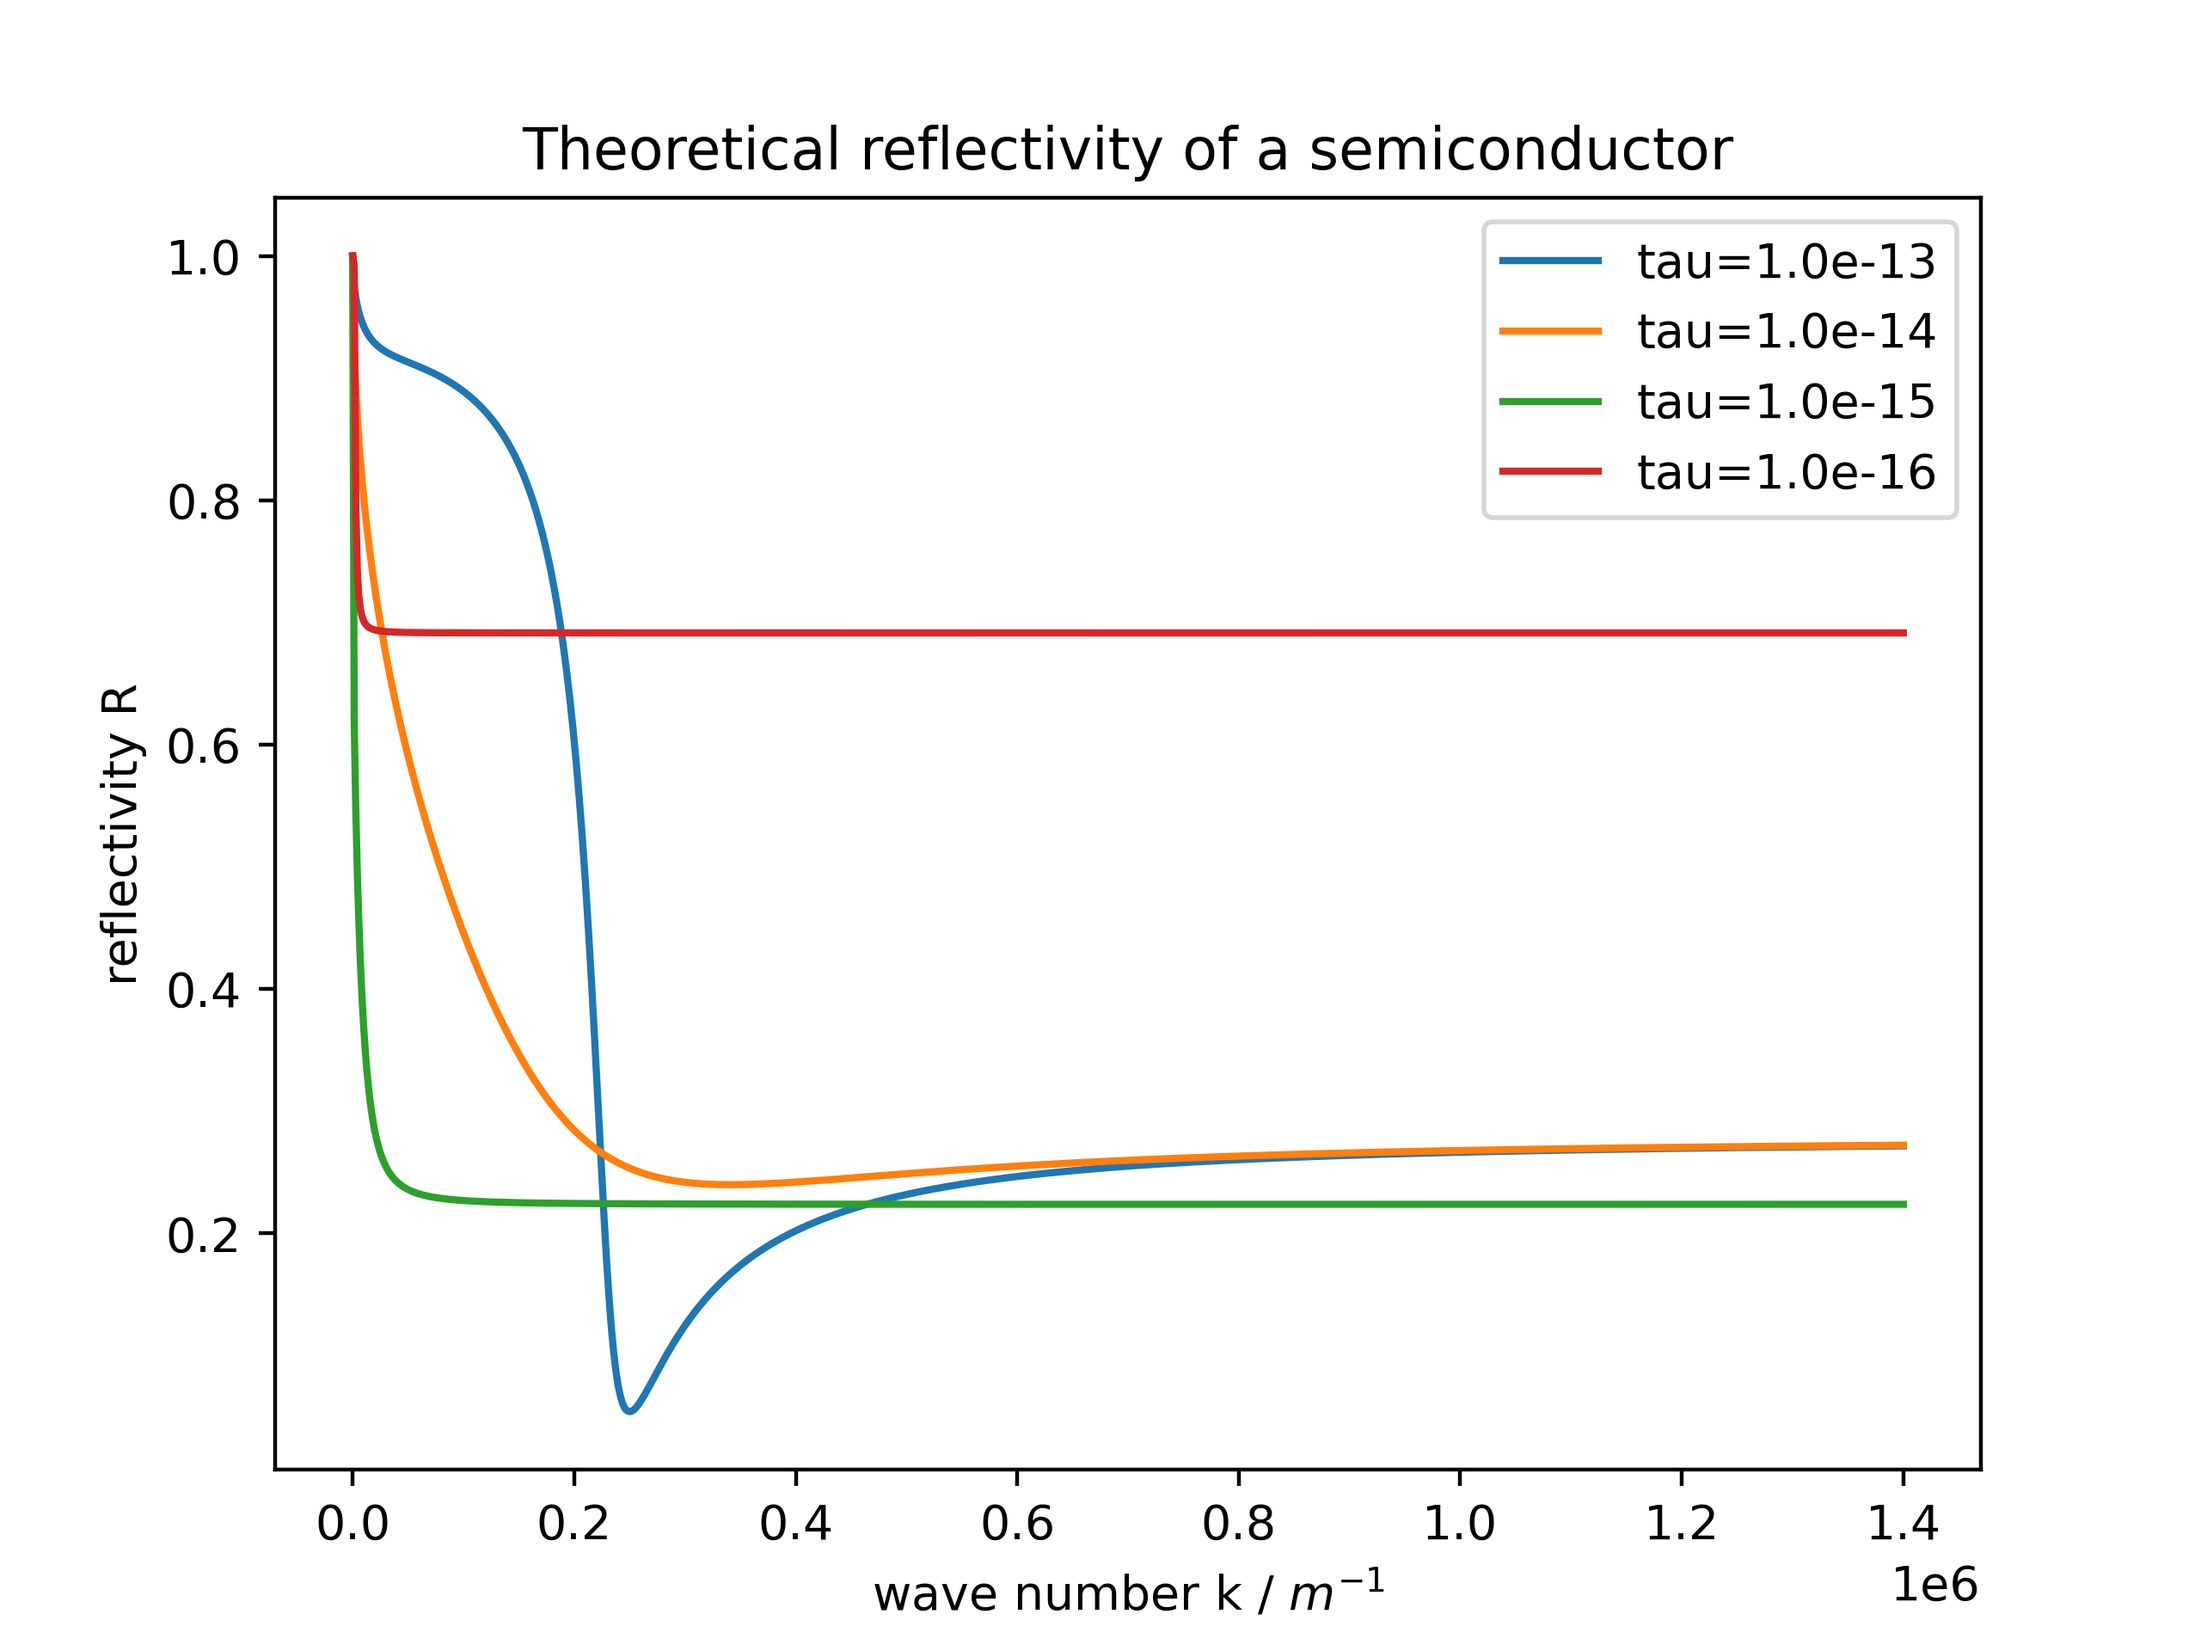
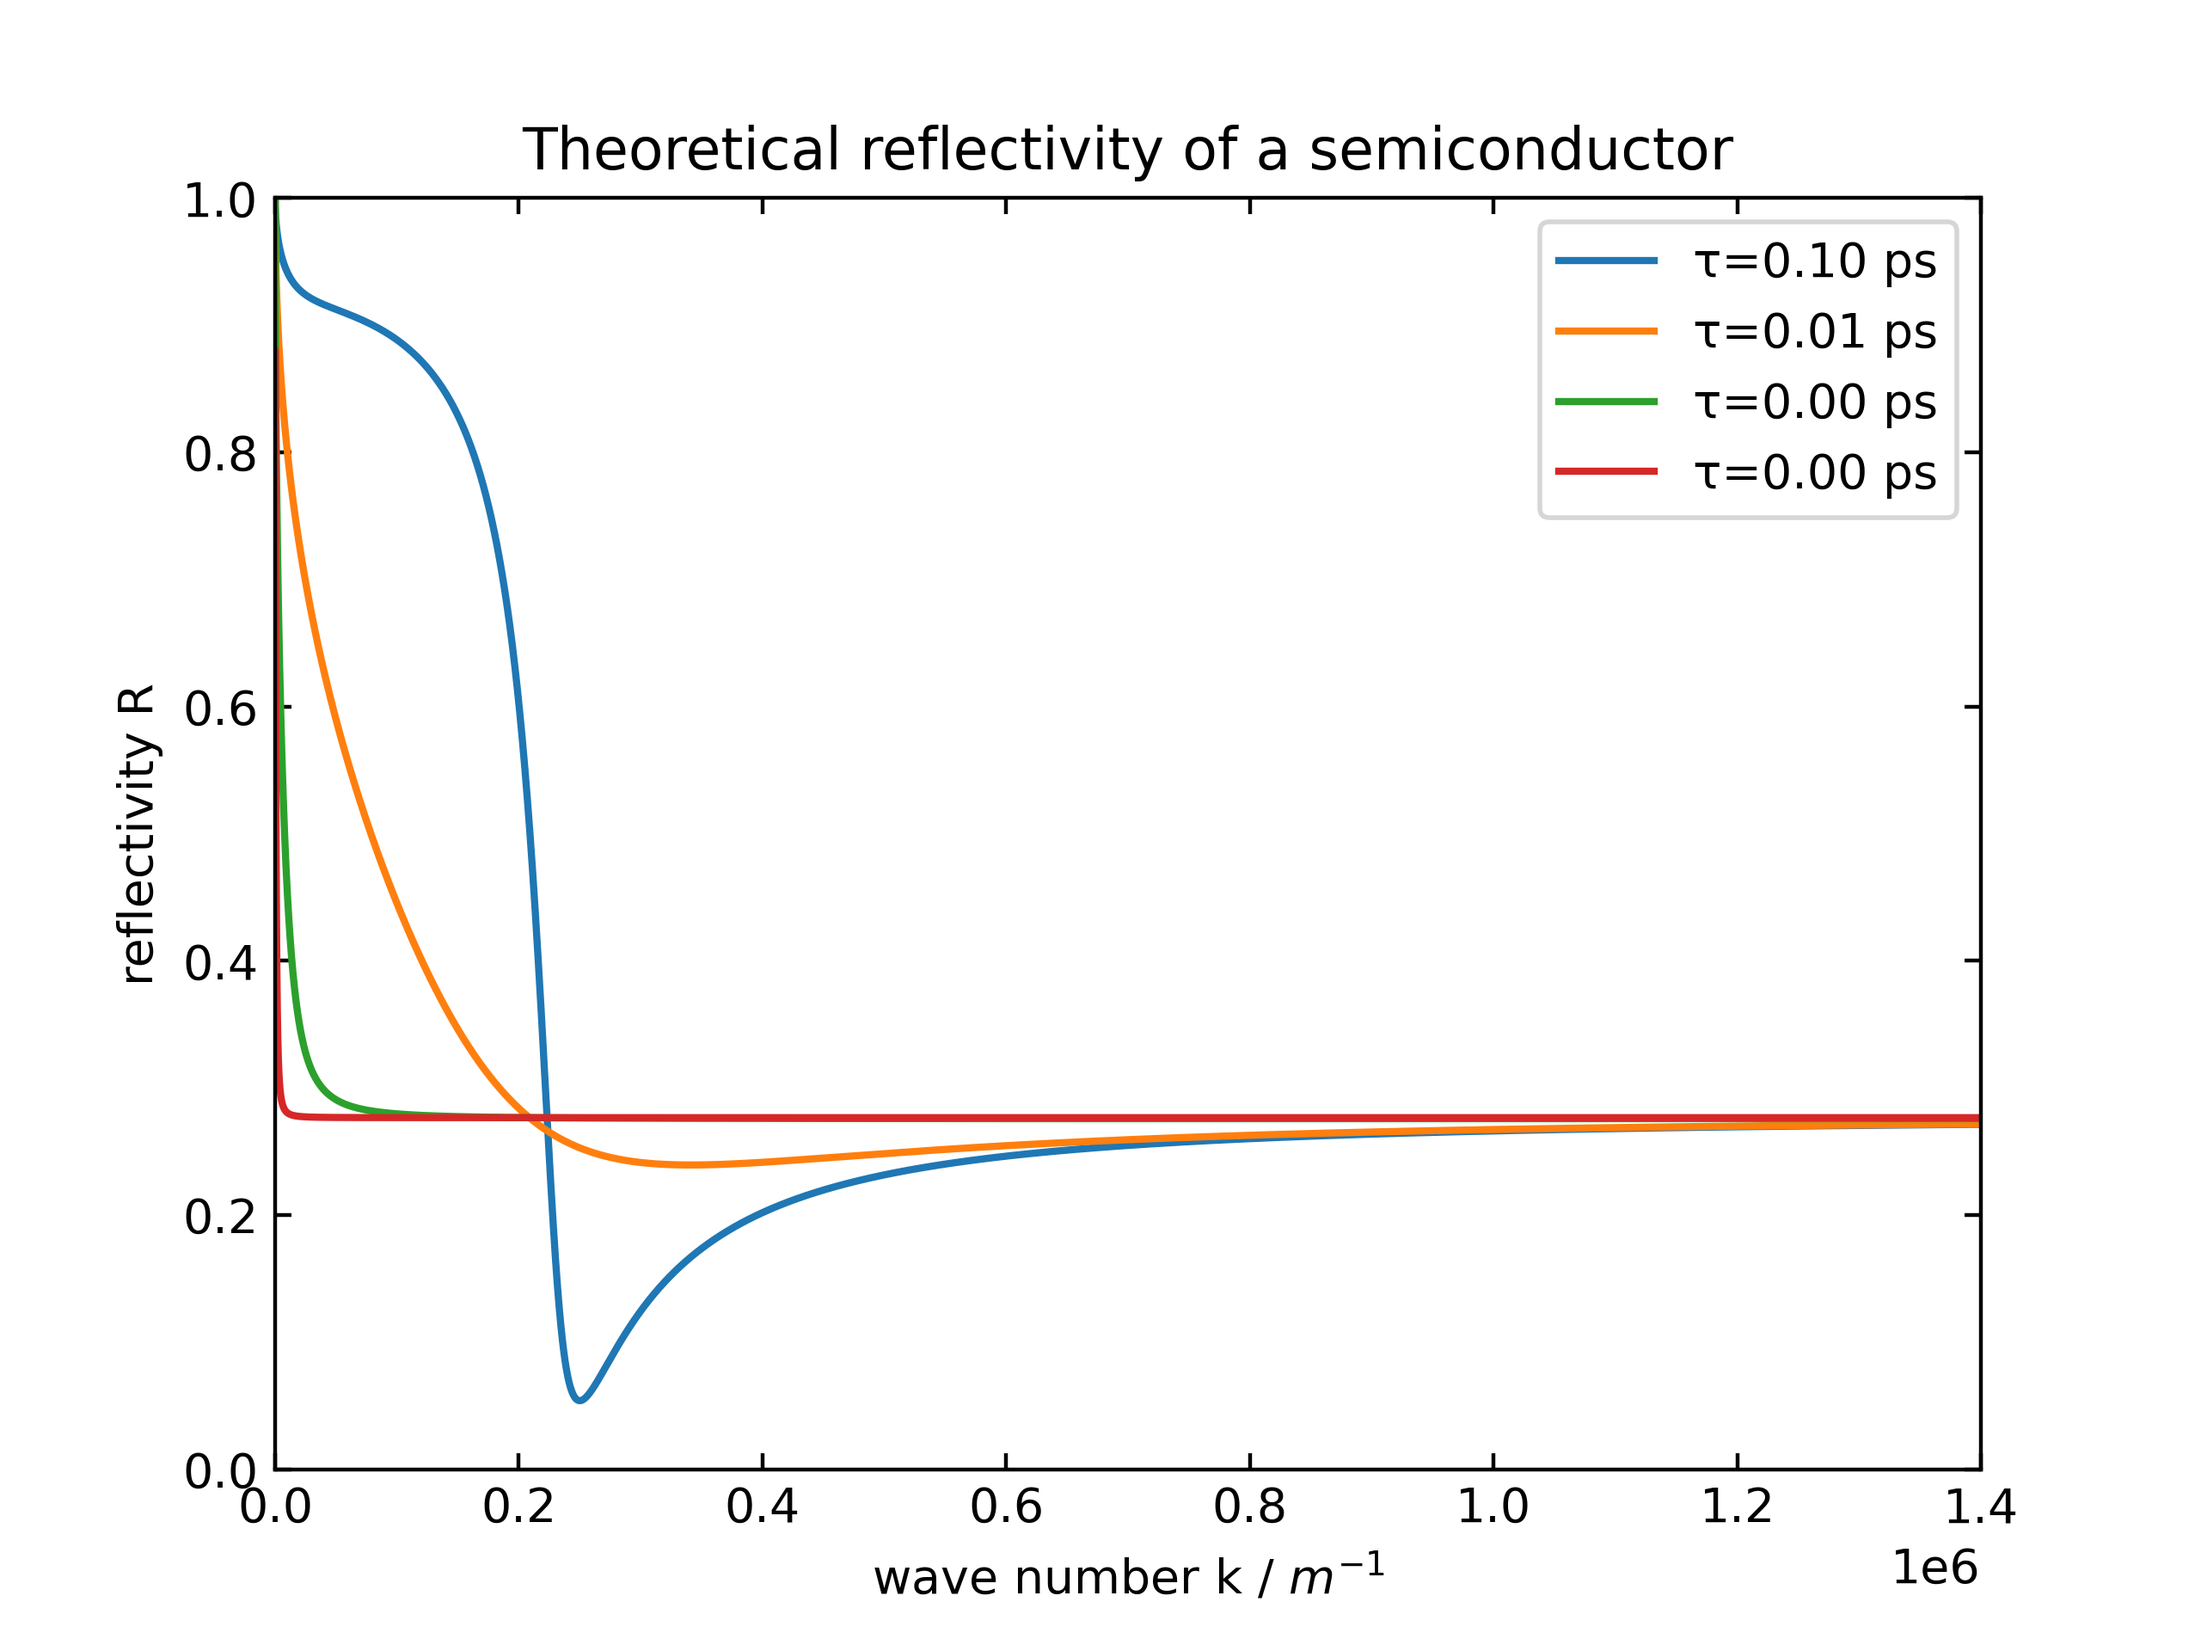
falsche Normierung entfernt

diff --git a/SolidStateOptics/Theory/Theoretical Curve Reflection.py b/SolidStateOptics/Theory/Theoretical Curve Reflection.py
@@ -13,7 +13,7 @@ tau3 = 0.001*10**-12
 tau4 = 0.0001*10**-12
 tau5 = 0.00001*10**-12
 c=const.c
-d = 500 *10**-5 #dicke si undoped
+d = 500*10**-5 #dicke si undoped
 k_max = 1*10**8
 k_max_semicon = 1400000
 epsilon_inf = 10.3648
@@ -45,27 +45,19 @@ k = np.linspace(0, k_max, 10000)
 taus = np.logspace(np.log10(tau1), np.log10(tau5), 50)  # Generate 50 tau values logarithmically spaced
 for tau in taus:
     ax.plot(k, calculateReflectivity(d, tau, k), color='gray', linewidth=0.5, alpha=0.7)
-    
-ax.plot(k, calculateReflectivity(d, tau1, k), linewidth=3)
-ax.plot(k, calculateReflectivity(d, tau2, k), linewidth=3)
-ax.plot(k, calculateReflectivity(d, tau3, k), linewidth=3)
-ax.plot(k, calculateReflectivity(d, tau4, k), linewidth=3)
-ax.plot(k, calculateReflectivity(d, tau5, k), linewidth=3)
 
+# Plot für spezifische τ-Werte
+for tau in [tau1, tau2, tau3, tau4, tau5]:
+    ax.plot(k, calculateReflectivity(d, tau, k), linewidth=3, label=f'τ={tau*1e12:.2f} ps')
 
-
-
-
-#ax.set_xticks([0, 0.25, 0.5, 0.75, 1], [r'$\Gamma$', 'X', 'M', 'Y', r'$\Gamma$'], size=14)
-
-ax.set_ylabel('Reflectivity R')
+# Achsentitel, Legende und Speichern
+ax.set_ylabel('reflectivity R')
 ax.set_xlabel('wavenumber k / ' + r'$m^{-1}$')
 ax.set_title('Reflectivity of a Fabry-Perot-Interferometer')
 ax.tick_params(axis='both', direction='in', which='both', top=True, right=True)
 ax.set_xlim(left=0, right=k_max)
 ax.set_ylim(bottom=0, top=1)
-#ax.grid()
-
+ax.legend()
 plt.savefig('Paper/Images/foo.png', dpi=400)
 from PIL import Image
 Image.open("Paper/Images/foo.png").show()
@@ -77,35 +69,38 @@ plt.clf()
 
 #Lukas
 
-def calculateReflectivitySemiconductor(epsilon_inf, omega_LO, omega_TO, gamma, d, k, N_DichteSemicon, tau1):
-    omega = c*k
-    epsilon_S = epsilon_inf * (1 + (omega_LO**2 - omega_TO**2) / (omega_TO**2 - omega**2 - 1j*omega*gamma))
-    sigma = (N_DichteSemicon*e**2*tau1)/(m_eff_Semicon)*(1/(1-1j*omega*tau1))
-    epsilon = epsilon_S + 1j*sigma/(omega*epsilon_0)
+def calculateReflectivitySemiconductor(epsilon_inf, omega_LO, omega_TO, gamma, d, k, N_DichteSemicon, tau):
+    omega = c * k
+    epsilon_S = epsilon_inf * (1 + (omega_LO**2 - omega_TO**2) / (omega_TO**2 - omega**2 - 1j * omega * gamma))
+    sigma = (N_DichteSemicon * e**2 * tau) / (m_eff_Semicon) * (1 / (1 - 1j * omega * tau))
+    epsilon = epsilon_S + 1j * sigma / (omega * epsilon_0)
     N_S = np.sqrt(epsilon)
-    expo = 1j*2*omega*N_S*d/c
-    r=(np.exp(expo)-1)*(1-N_S)/(np.exp(expo)*(1-N_S)-(1+N_S))
-    R_S = np.abs(r)**2 / max(np.abs(r)**2)
+    expo = 1j * 2 * omega * N_S * d / c
+    r = (np.exp(expo) - 1) * (1 - N_S) / (np.exp(expo) * (1 - N_S) - (1 + N_S))
+    R_S = np.abs(r)**2  # Normierung entfernt
     return R_S
 
-k = np.linspace(1, k_max_semicon, 1000)  
-plt.clf()
+# Erhöhung der Auflösung von k
+k = np.linspace(1, k_max_semicon, 50000)  # Startwert auf 0.1 gesetzt, höhere Auflösung
 
-# Plot für alle tau-Werte
+# Plot für alle τ-Werte
 taus = [tau1, tau2, tau3, tau4]
 for tau in taus:
     R_S = calculateReflectivitySemiconductor(epsilon_inf, omega_LO, omega_TO, gamma, d, k, N_DichteSemicon, tau)
     # Überprüfung, ob R_S gültige Werte enthält
     if np.all(np.isnan(R_S)) or np.all(R_S == 0):
-        print(f"Warnung: Alle Werte von R_S für tau={tau} sind ungültig oder Null.")
+        print(f"Warnung: Alle Werte von R_S für τ={tau} sind ungültig oder Null.")
     else:
-        plt.plot(k, R_S, label=f'tau={tau:.1e}')
+        plt.plot(k, R_S, label=f'τ={tau*1e12:.2f} ps')
 
-# Achsentitel und Legende
+# Achsentitel, Legende und Speichern
 plt.xlabel('wave number k / ' + r'$m^{-1}$')
 plt.ylabel('reflectivity R')
 plt.title('Theoretical reflectivity of a semiconductor')
 plt.legend()
+plt.tick_params(axis='both', direction='in', which='both', top=True, right=True)
+plt.xlim(left=0, right=k_max_semicon)
+plt.ylim(bottom=0, top=1)
 plt.savefig('Paper/Images/semi.png', dpi=400)
 from PIL import Image
 Image.open("Paper/Images/semi.png").show()
